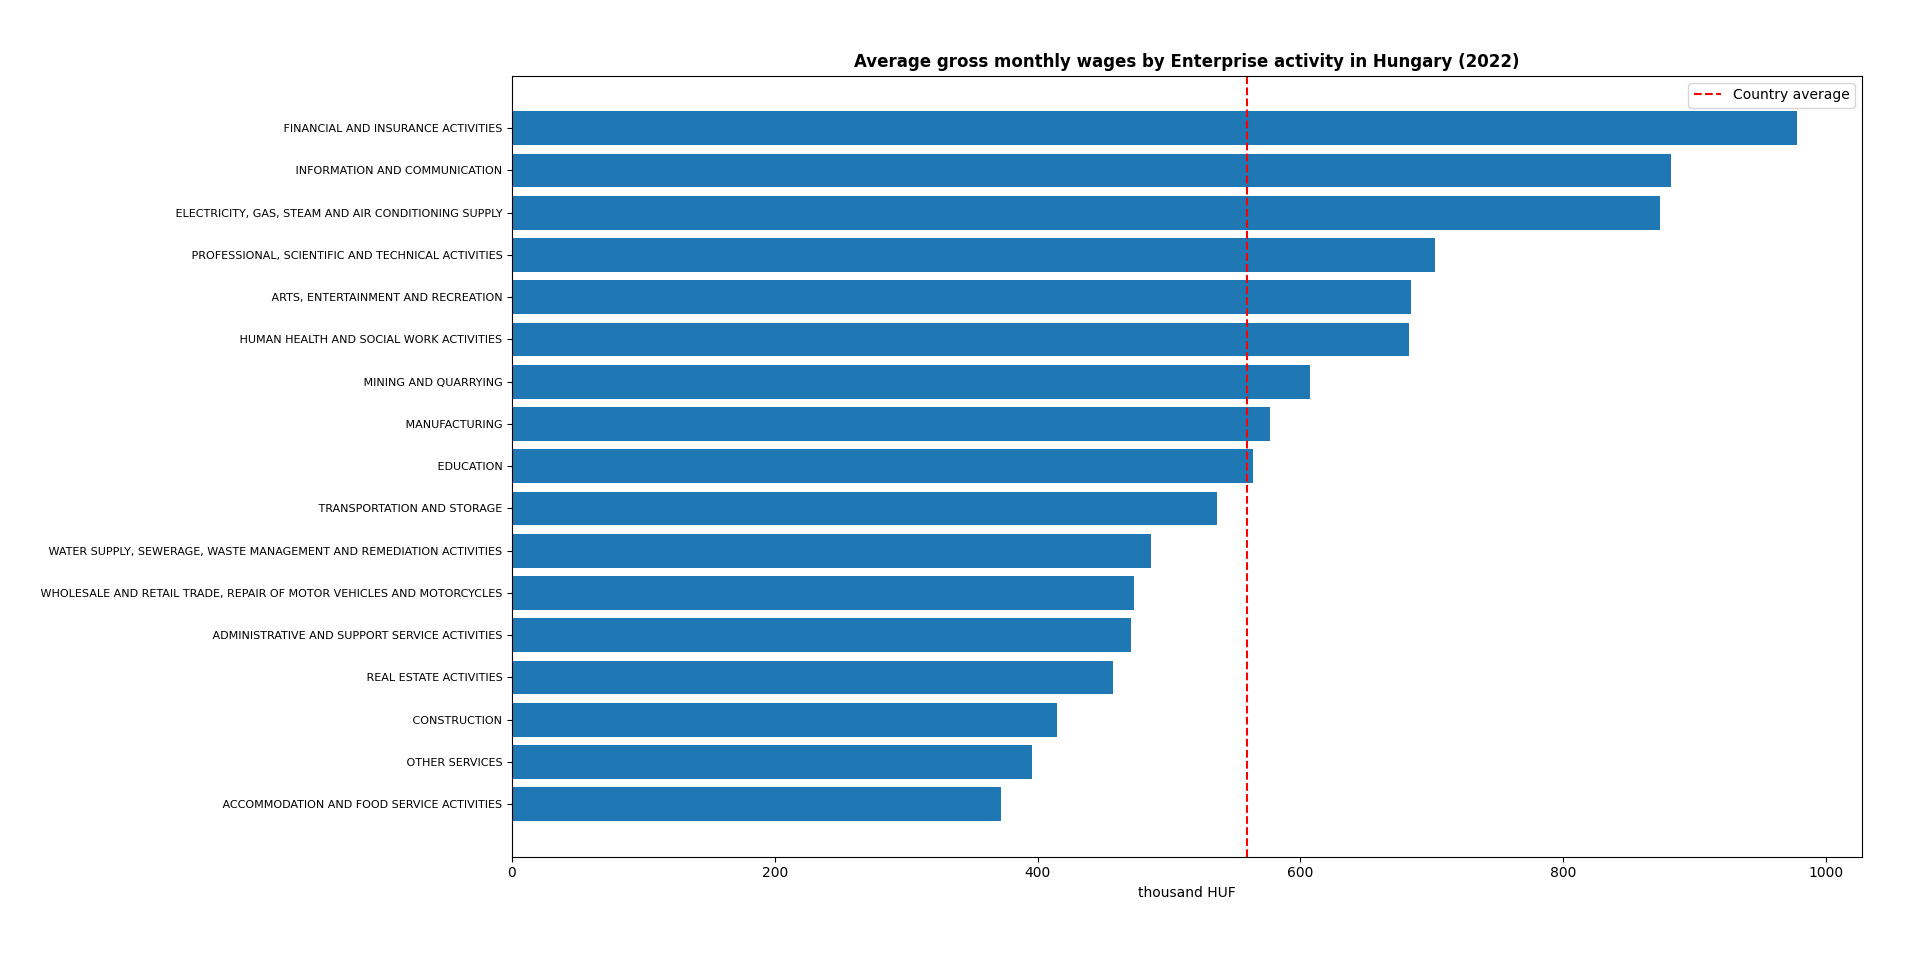
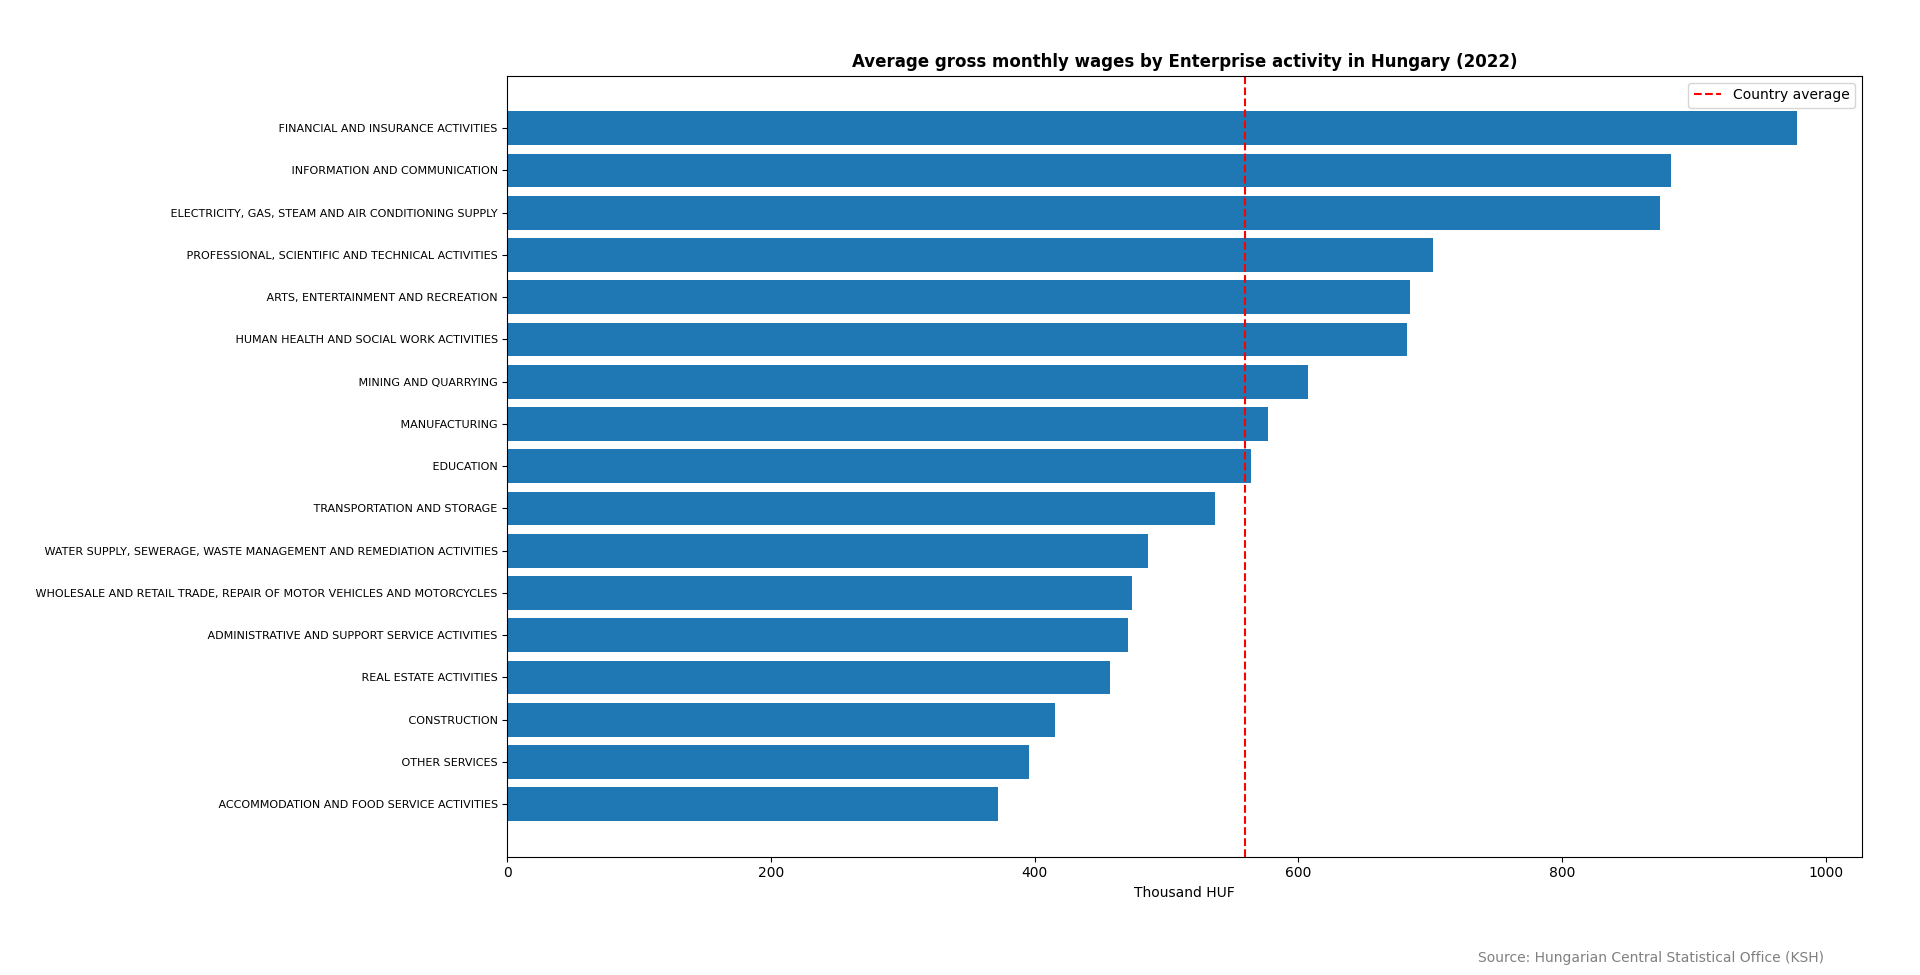
Minor changes in Figure 3

diff --git a/first-project.py b/first-project.py
@@ -56,9 +56,11 @@ country_avg_wages = ((df['Wages and salaries (WAGE) (thousand HUF)'].sum() / df[
 print(country_avg_wages)
 ax.axvline(country_avg_wages,  color='red', linestyle='--', label='Country average')
 plt.yticks(fontsize=8)
-plt.xlabel("thousand HUF")
+plt.xlabel("Thousand HUF")
 plt.title("Average gross monthly wages by Enterprise activity in Hungary (2022)", fontweight='bold')
 ax.legend()
+fig.text(0.95, 0.01, 'Source: Hungarian Central Statistical Office (KSH)', 
+         ha='right', va='bottom', fontsize=10, color='gray')
 plt.tight_layout()
 plt.show()
 
